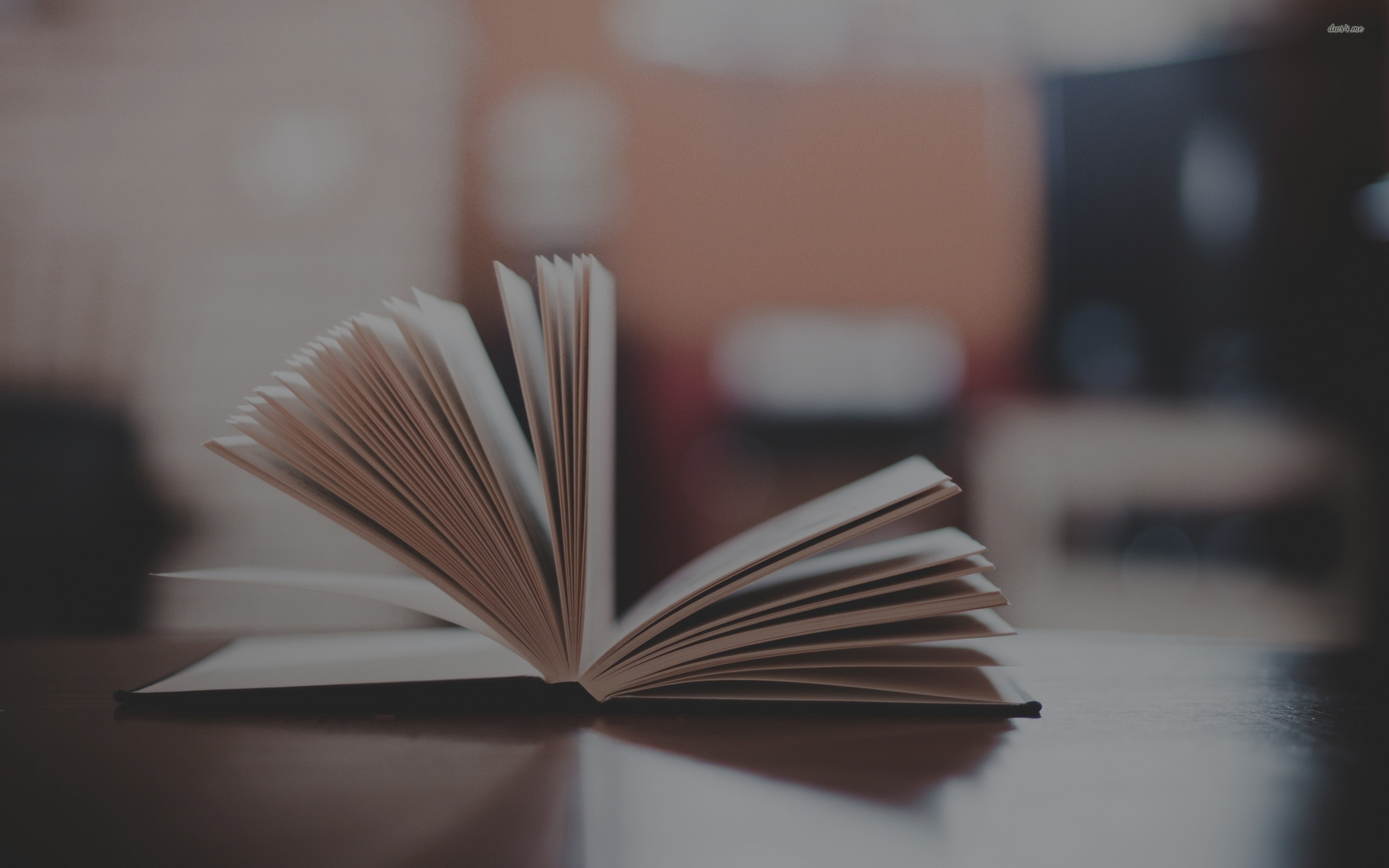
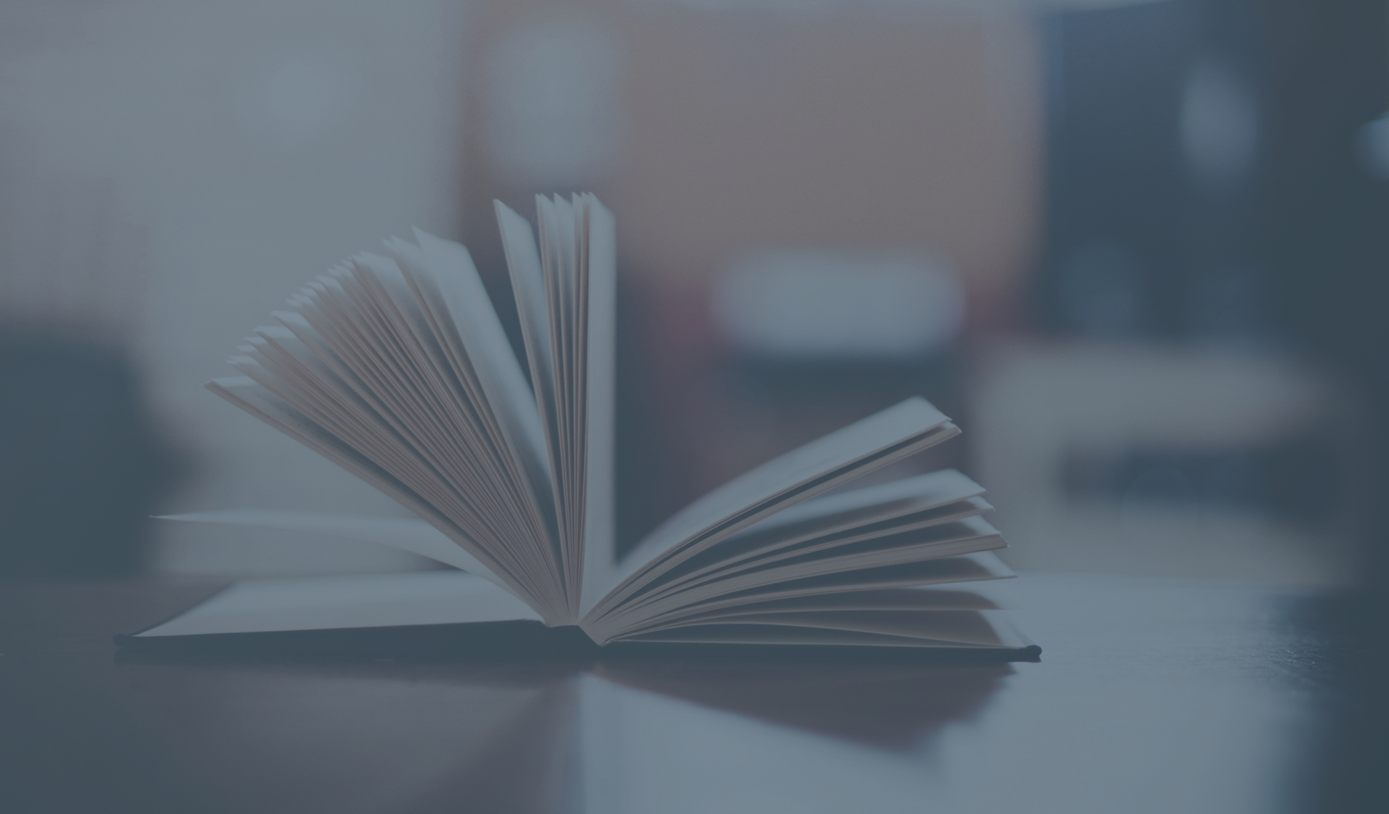
finish unit 6

diff --git a/booksite/style.css b/booksite/style.css
@@ -1,38 +1,37 @@
 * { margin:0; padding:0; box-sizing:border-box; }
-html {
+/*html {
 	background: url("assets/openbook.jpg") no-repeat center center fixed; 
   	-webkit-background-size: cover;
   	-moz-background-size: cover;
   	-o-background-size: cover;
   	background-size: cover;
-}
+}*/
 
 body {
 	font-family: 'Raleway', sans-serif;
-
  	letter-spacing: 2px;
 }
 
 header {
-	background-color: #0C273D;
-	margin: 8px 460px;
-	border: 4px solid #FFF;
-
+	background-image: linear-gradient(#547B97, #212B40 70%, #0C273D);
+	margin: 0px auto; 
+	float: center;
+	width: 100%;
 }
 
 .logo {
-	width: 240px;
-	height: 100px;
+
+	width: 200px;
+	height: 70px;
 	display: block;
 	margin: 0 auto;
-	padding-top: 0px;
 }
 
 h1 {
 	color: #FFF;
-	font-size: 50px;
+	font-size: 30px;
 	text-align: center;
-	margin-top: -30px;
+	margin-top: -20px;
 	letter-spacing: 4px;
 }
 
@@ -42,10 +41,14 @@ strong {
 
 nav {
 	background-color: #BADCDD;
-  	font-size: 20px;
+  	font-size: 18px;
   	text-align: center;
-  	margin-top: 20px;
-  	padding-top: 4px;
+	border-style: solid;
+	border-color: #FFF;
+	border-top-width: 0px;
+	border-bottom-width: 0px;
+	border-left-width: 80px;
+	border-right-width: 80px;
 }
 
 ul {
@@ -59,28 +62,82 @@ li {
 
 nav a {
 	float: left;
-  	color: #0C273D;
+  	color: #547B97;
   	text-decoration: none;
   	text-align: center;
-  	padding: 0px 100px;
+  	padding: 5px 100px;
 }
 
 a:hover {
-	color: #FFF;
+	color: #fff;
 }
 
-.shelfbg {
-	display: block;
-	margin: 0 auto;
+.hero {
+	width: 100%;
+	height: auto;
+
+}
+
+#bodyWrapper {
+	width: 100%;
+	text-align: center;
+	position: relative;
+}
+
+#contentWrap {
+	position: absolute;
+	top: 100px;
+	bottom: 0;
+	left: 0;
+	right: 0;
+}
+
+h2 {
+	color: #fff;
+	font-size: 48px;
+	font-family: 'Baskerville', serif;
+	font-weight: normal;
+	letter-spacing: 5px;
+	z-index: 1;
+	width: 100%;
+}
+
+.button {
+	width: 250px;
+	margin-top: 60px;
+	z-index: 2;
+
+}
+#botStripe {
+	background-color: #BADCDD;
+	height: 20px;
 	clear: both;
-	width: 960px;
-	opacity: .6;
+	margin-top: -4px;
+}
+footer {
+	background-color: #fff;
+	height: 100px;
+	width: 100%;
+	left: 0;
+	bottom: 0;
 }
 
-#hero {
-	background-color: #0C273D;
+#footWrapper {
+	width: 100%;
+	text-align: center;
+	position: relative;
+}
+hr {
+	border-color: #547B97;;
+	width: 300px;
+	margin: 60px auto 20px auto;
+
 }
 
-#exploreTab {
-	color: #FFF;
+h3 {
+	font-family: 'Raleway', sans-serif;
+	font-weight: normal;
+	font-size: 18px;
+  	color: #547B97;
+
 }

diff --git a/booksite/index.html b/booksite/index.html
@@ -12,10 +12,31 @@
 	<header>
       	<img class="logo" src="assets/logot.png">
 		<h1>SH<strong>E</strong>LF</h1>	
-	</header>	
-	<section>
+	</header>
 
-	</section>		
+	<nav>
+		<ul>		
+        	<li><a href="explore.html">Explore</a></li>      		
+        	<li><a href="#">My Shelf</a></li>
+        	<li><a href="#">Stories</a></li>  
+        </ul>	      
+    </nav>	
+
+	<section id="bodyWrapper">
+		<img class="hero" src="assets/openbook.jpg">
+		<div id="contentWrap">
+			<h2>A more beautiful way <br>to discover and organize <br>the books you love.</h2>	
+			<img class="button" src="assets/getstarted.png">
+		</div>
+		<div id="botStripe"></div>	
+	</section>	
+
+    <footer>
+    	<section id="footWrapper">
+    	<hr>
+    	<h3>Coming Soon</h3>
+    	</section>
+    </footer>
 </body>
 
 </html>
